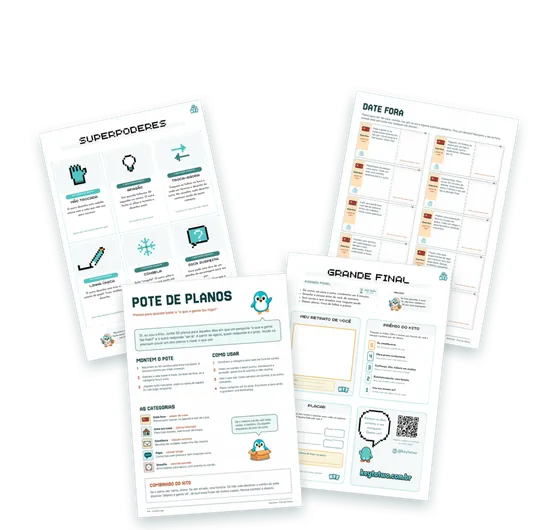
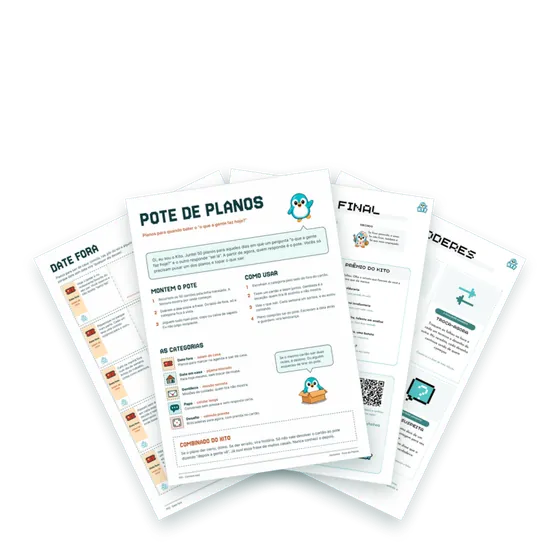
feat: páginas dos gratuitos em leque sobre o arco

diff --git a/src/components/sections/ExperienceSections.tsx b/src/components/sections/ExperienceSections.tsx
@@ -10,7 +10,7 @@ import { CutLine } from '../ui/CutLine'
 // A linha de recorte entra aqui, logo depois da hero (DESIGN.md › The Three Cuts Rule).
 export function ProductExperience() {
   return <section className="page-section experience-section" aria-labelledby="experiencia"><CutLine /><div className="content-width experience-layout">
-    <figure className="experience-art"><div className="experience-pages"><img src="/media/experience/gratuitos-paginas-840.webp" srcSet="/media/experience/gratuitos-paginas-560.webp 560w, /media/experience/gratuitos-paginas-840.webp 840w, /media/experience/gratuitos-paginas-1120.webp 1120w" sizes="(max-width: 767px) calc(100vw - 32px), 560px" alt="Páginas da Hora dos Artistas e do Pote de Planos espalhadas sobre a mesa" width="1120" height="1060" loading="lazy" decoding="async" /></div><figcaption>Hora dos Artistas e Pote de Planos, <Link className="inline-link" to="/gratuitos">os jogos gratuitos</Link>.</figcaption></figure>
+    <figure className="experience-art"><div className="experience-pages"><img src="/media/experience/gratuitos-paginas-720.webp" srcSet="/media/experience/gratuitos-paginas-560.webp 560w, /media/experience/gratuitos-paginas-720.webp 720w, /media/experience/gratuitos-paginas-900.webp 900w" sizes="(max-width: 767px) calc(100vw - 32px), 560px" alt="Páginas da Hora dos Artistas e do Pote de Planos espalhadas sobre a mesa" width="900" height="880" loading="lazy" decoding="async" /></div><figcaption>Hora dos Artistas e Pote de Planos, <Link className="inline-link" to="/gratuitos">os jogos gratuitos</Link>.</figcaption></figure>
     <div className="experience-copy"><h2 id="experiencia" tabIndex={-1}>A próxima rodada sai da impressora.</h2><p className="lead">Cartas na mesa, uma tentativa duvidosa e aquela vontade de jogar de novo.</p><p>Um dia é desenho, no outro é tabuleiro ou investigação. Vocês imprimem em casa e o resto fica com a dupla.</p><Link className="button button-primary" to="/loja">Ver os jogos</Link></div>
   </div></section>
 }

diff --git a/src/styles.css b/src/styles.css
@@ -293,12 +293,12 @@ html[data-kito-carrying], html[data-kito-carrying] * { cursor: grabbing !importa
 .experience-copy h2 { margin-bottom: var(--space-md); }
 .experience-copy p { max-width: 42ch; }
 .experience-copy .button { margin-top: var(--space-sm); }
-/* Páginas dos gratuitos sobre um arco Sol, passando dele dos lados e embaixo. O arco tem a geometria que
-   scripts/prepare-free-pages.mjs usa para compor a arte (tela 1120 × 1060, arco de x 160 a 960 e de y 20 a 880), em %
-   da imagem: acompanha qualquer largura. O topo é meia-volta, raio de 400 nos dois eixos. */
+/* Páginas dos gratuitos em leque sobre um arco Sol, passando dele dos lados e embaixo. O arco tem a geometria que
+   scripts/prepare-free-pages.mjs usa para compor a arte (tela 900 × 880, arco de x 100 a 800 e de y 20 a 727), em %
+   da imagem: acompanha qualquer largura. O topo é meia-volta, raio de 350 nos dois eixos. */
 .experience-art { margin: 0; min-width: 0; width: min(100%, 560px); justify-self: center; }
 .experience-pages { position: relative; }
-.experience-pages::before { content: ''; position: absolute; inset: calc(100% * 20 / 1060) calc(100% * 160 / 1120) calc(100% * 180 / 1060); border-radius: 50% 50% var(--radius-lg) var(--radius-lg) / calc(100% * 400 / 860) calc(100% * 400 / 860) var(--radius-lg) var(--radius-lg); background: var(--color-sun); }
+.experience-pages::before { content: ''; position: absolute; inset: calc(100% * 20 / 880) calc(100% * 100 / 900) calc(100% * 153 / 880); border-radius: 50% 50% var(--radius-lg) var(--radius-lg) / calc(100% * 350 / 707) calc(100% * 350 / 707) var(--radius-lg) var(--radius-lg); background: var(--color-sun); }
 .experience-pages img { position: relative; display: block; width: 100%; height: auto; }
 .experience-art figcaption { margin-top: var(--space-sm); text-align: center; font-size: var(--text-small); color: var(--color-ink-soft); }
 .how-section { background: var(--color-paper); }

diff --git a/tests/e2e/a2-conversion.spec.ts b/tests/e2e/a2-conversion.spec.ts
@@ -11,7 +11,7 @@ test('real previews and catalog price on the home showcase', async ({ page }) =>
   await page.setViewportSize({ width: 390, height: 844 })
   await page.goto('/')
   // Páginas só dos gratuitos, numa arte (responsável, 2026-10-20); dos jogos pagos, nenhuma página (2026-10-16).
-  await expect(page.locator('.experience-art img')).toHaveAttribute('src', '/media/experience/gratuitos-paginas-840.webp')
+  await expect(page.locator('.experience-art img')).toHaveAttribute('src', '/media/experience/gratuitos-paginas-720.webp')
   await expect(page.locator('.experience-art figcaption').getByRole('link', { name: 'os jogos gratuitos' })).toHaveAttribute('href', '/gratuitos')
   await expect(page.locator('img[src*="j001-page"]')).toHaveCount(0)
   const showcase = page.locator('.shop-showcase')

diff --git a/DESIGN.md b/DESIGN.md
@@ -396,7 +396,7 @@ A partir de 4 relatos, uma faixa de borda a borda desliza devagar e sem parar (9
   - **Carregar:** pressionar e arrastar o Kito o leva para qualquer ponto da hero, por cima do texto, pendurado pelos pés soltos e balançando com a mão (quadros girados com RotSprite a partir do "erguido no ar"). Ao soltar ele cai com o impulso da mão: queda curta amortece, queda alta ou arremesso rola no chão. Uma sombra em degraus fica no chão e encolhe com a altura.
   - **Nuvens:** atravessam o céu em 150 a 300 s, cada uma num ritmo.
   - **Pausa:** fora de vista, aba oculta ou menu aberto congelam tudo, inclusive a interação. Não há botão de pausa (decisão do responsável em 2026-10-18); `prefers-reduced-motion` deixa o Kito parado, de frente, sem baixar o motor nem o atlas. O motor (`src/lib/kito-playground.ts`) só desce quando a cena roda pela primeira vez; o servidor entrega a pose de frente (3 KB).
-- **Na home, fora da hero:** no máximo uma participação, parada, como anfitrião de um convite. Desde 2026-10-20 não há nenhuma: ao lado de "A próxima rodada sai da impressora" ficam quatro páginas dos jogos gratuitos (Hora dos Artistas e Pote de Planos) abertas em V sob o arco Sol e passando dele, numa imagem só gerada por `scripts/prepare-free-pages.mjs`, com 330 px por página na maior versão, pequena demais para imprimir. Dos jogos pagos, nenhuma página aparece no site. O aceno do rodapé é da moldura do site, não da home. Nunca como ícone de pilar. Na arte oficial das capas dos jogos ele é o protagonista (as capas são peças aprovadas, não enfeite).
+- **Na home, fora da hero:** no máximo uma participação, parada, como anfitrião de um convite. Desde 2026-10-20 não há nenhuma: ao lado de "A próxima rodada sai da impressora" ficam quatro páginas dos jogos gratuitos (Hora dos Artistas e Pote de Planos) abertas em leque sob o arco Sol e passando dele, numa imagem só gerada por `scripts/prepare-free-pages.mjs`, com 330 px por página na maior versão, pequena demais para imprimir. Dos jogos pagos, nenhuma página aparece no site. O aceno do rodapé é da moldura do site, não da home. Nunca como ícone de pilar. Na arte oficial das capas dos jogos ele é o protagonista (as capas são peças aprovadas, não enfeite).
 - **Vazios** (carrinho, biblioteca, gaveta): Kito na caixa (`kito-caixa`, 240 px; 180 px no celular), com a entrada curta de 650 ms.
 - **Celebração** (pagamento confirmado): Kito acenando (`kito-hi`) com o confete de 1,1 s. Único lugar de delícia longa.
 - **Erro, falha de pagamento e 404:** pose neutra = **quadro 01 do atlas** (`.kito-still`, fundo `kito-walk-v31-right-atlas.webp` em `0 0 / 600% 200%`, 128–160 px), sem lágrima, sem aceno. Nenhuma imagem nova é gerada para isso.
